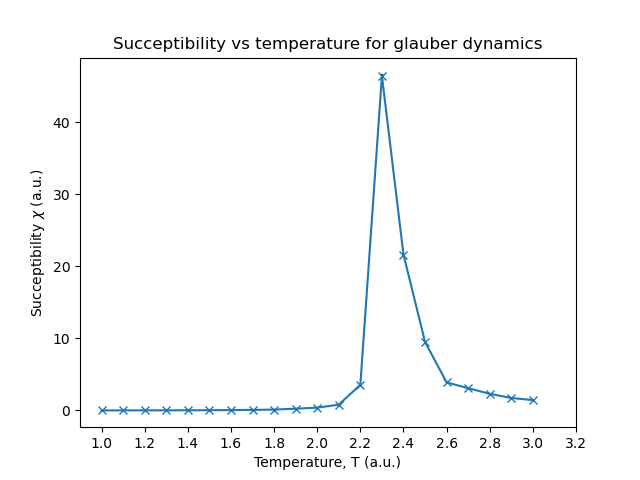
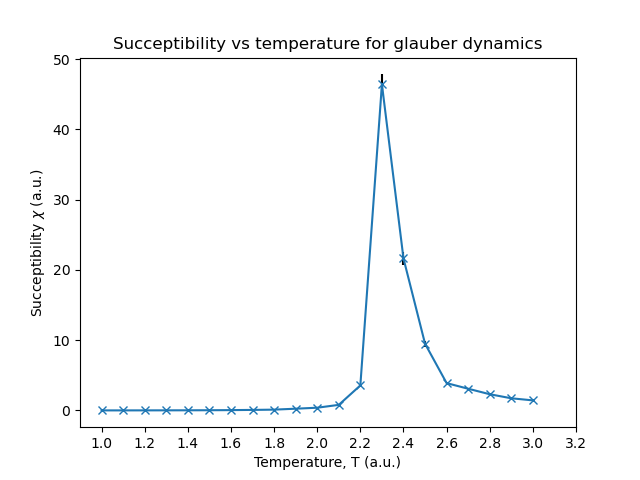
fixed error calculation for magnetisation and succeptibility

diff --git a/checkpoint_1/find_obs_average.py b/checkpoint_1/find_obs_average.py
@@ -37,8 +37,8 @@ def calculate_obs(data):
         magnetisation.append(np.average(np.absolute(data[i][1][:])))
         succeptibility.append((np.average(np.absolute(data[i][1][:]**2))\
             - np.average(np.absolute(data[i][1][:]))**2)/(2500*temperature[i]))
-        heat_capacity.append((np.average(np.absolute(data[i][0][:]**2))\
-            - np.average(np.absolute(data[i][0][:]))**2)/(2500*temperature[i]**2))
+        heat_capacity.append((np.average(data[i][0][:]**2)\
+            - np.average(data[i][0][:])**2)/(2500*temperature[i]**2))
     return temperature, energy, magnetisation, succeptibility, heat_capacity
 
 def energy_resample(data):
@@ -62,7 +62,7 @@ def magnetisation_resample(data):
     for i in range(len(data)):
         temp_resampled_data= []
         for j in range(k):
-            bootstrap_resample= np.random.choice(data[i][0][:], size= n)
+            bootstrap_resample= np.random.choice(data[i][1][:], size= n)
             temp_resampled_data.append(bootstrap_resample)
         total_magnetisation_resampled_data.append(temp_resampled_data)
     return np.array(total_magnetisation_resampled_data)
